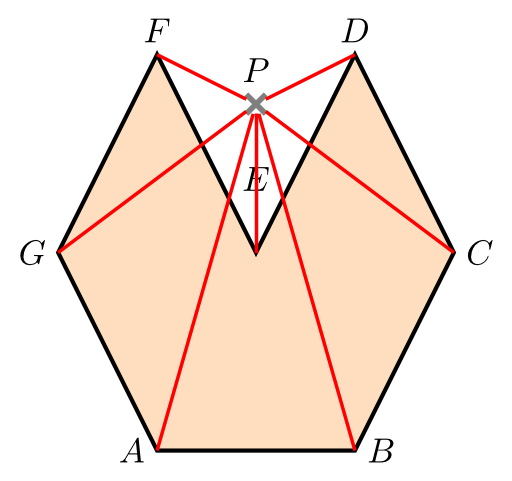
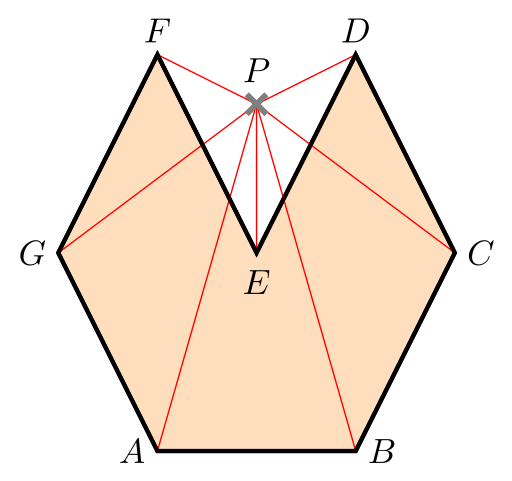
Improve quality of image

diff --git a/tikz/polygon-is-point-inside/polygon-is-point-inside.tex b/tikz/polygon-is-point-inside/polygon-is-point-inside.tex
@@ -3,7 +3,7 @@
 \usetikzlibrary{shapes.geometric,positioning,calc,shapes.misc}
 
 \begin{document}
-    \tikzstyle{polygon}=[very thick, fill=orange!25]
+    \tikzstyle{polygon}=[very thick]
     \tikzstyle{point}=[ultra thick,draw=gray,cross out,inner sep=0pt,minimum width=4pt,minimum height=4pt,]
     \tikzstyle{line}=[red]
     \begin{tikzpicture}
@@ -11,21 +11,27 @@
         \coordinate[label=right:$B$] (B) at (3,0);
         \coordinate[label=right:$C$] (C) at (4,2);
         \coordinate[label=above:$D$] (D) at (3,4);
-        \coordinate[label={[label distance=0.5cm]90:$E$}] (E) at (2,2);
+        \coordinate[label={[label distance=0.5cm]270:$E$}] (E) at (2,2);
         \coordinate[label=above:$F$] (F) at (1,4);
         \coordinate[label=left:$G$] (G) at (0,2);
 
 
+        \draw[polygon, fill=orange!25] (A) -- (B) -- (C) -- (D) -- (E) -- (F) -- (G) -- cycle;
+
+        \coordinate[label={[label distance=0.05cm]270:$E$}] (E) at (2,2);
+
+        \node (P) [point]   at  (2,3.5) {};
+
+        \draw[line] (P.center) -- (A);
+        \draw[line] (P.center) -- (B);
+        \draw[line] (P.center) -- (C);
+        \draw[line] (P.center) -- (D);
+        \draw[line] (P.center) -- (E);
+        \draw[line] (P.center) -- (F);
+        \draw[line] (P.center) -- (G);
+
+        \node (P) [point, label={[above]{$P$}}]   at  (2,3.5) {};
+
         \draw[polygon] (A) -- (B) -- (C) -- (D) -- (E) -- (F) -- (G) -- cycle;
-
-        \node (P) [point, label={[right]{$P$}}]   at  (2,3.5) {};
-
-        \draw[line] (P) -- (A);
-        \draw[line] (P) -- (B);
-        \draw[line] (P) -- (C);
-        \draw[line] (P) -- (D);
-        \draw[line] (P) -- (E);
-        \draw[line] (P) -- (F);
-        \draw[line] (P) -- (G);
     \end{tikzpicture}
 \end{document}
